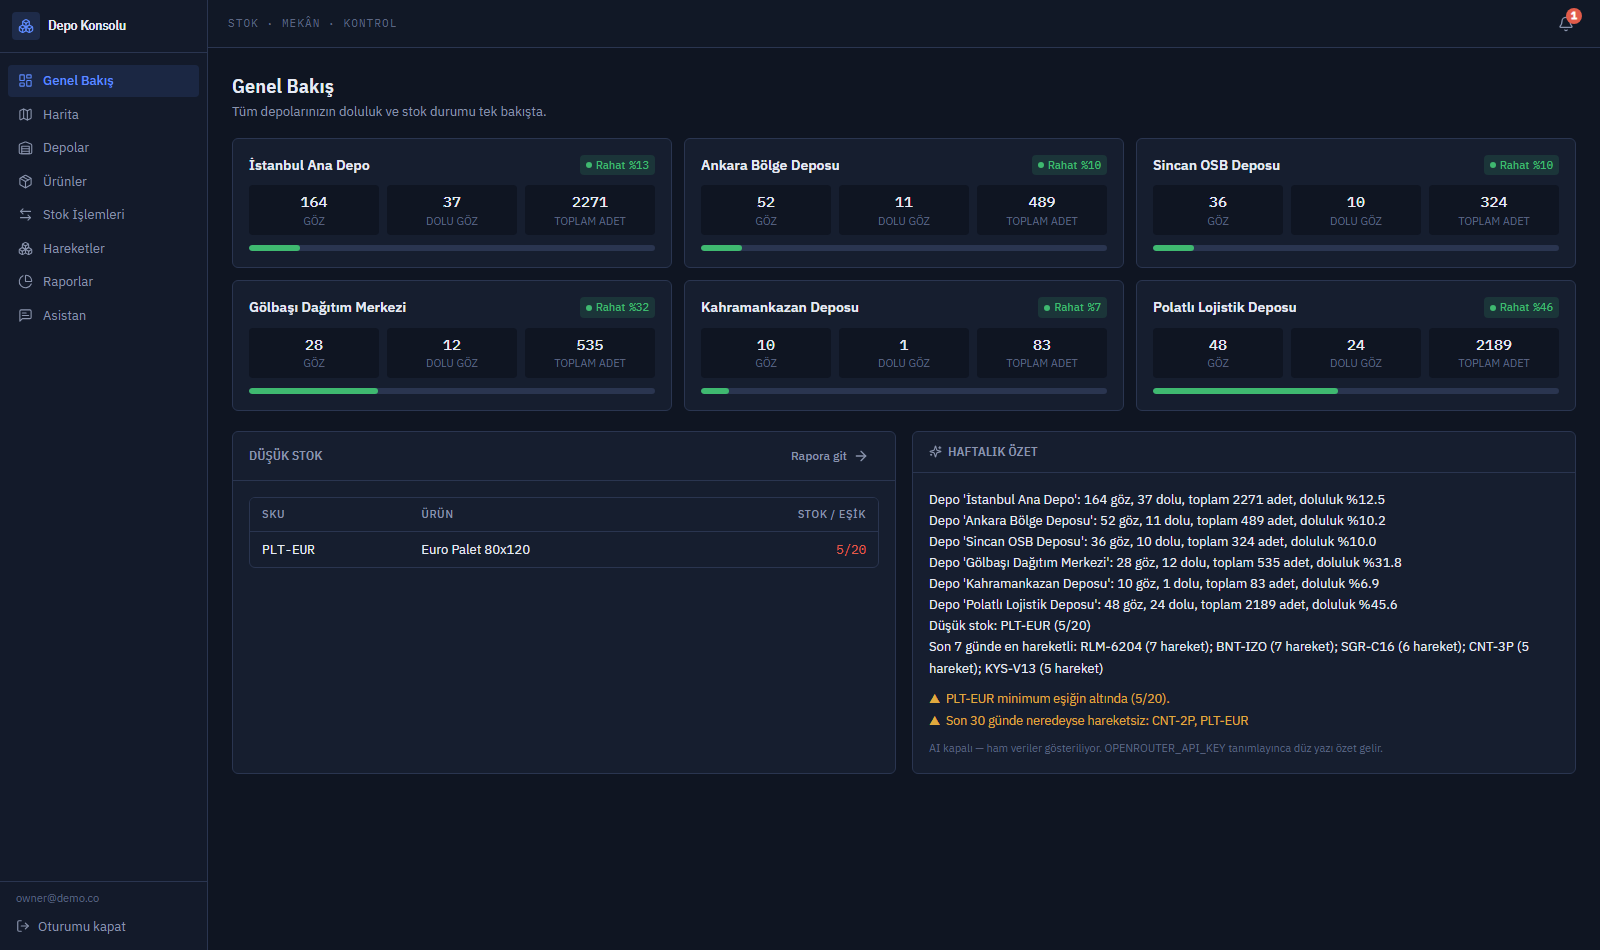
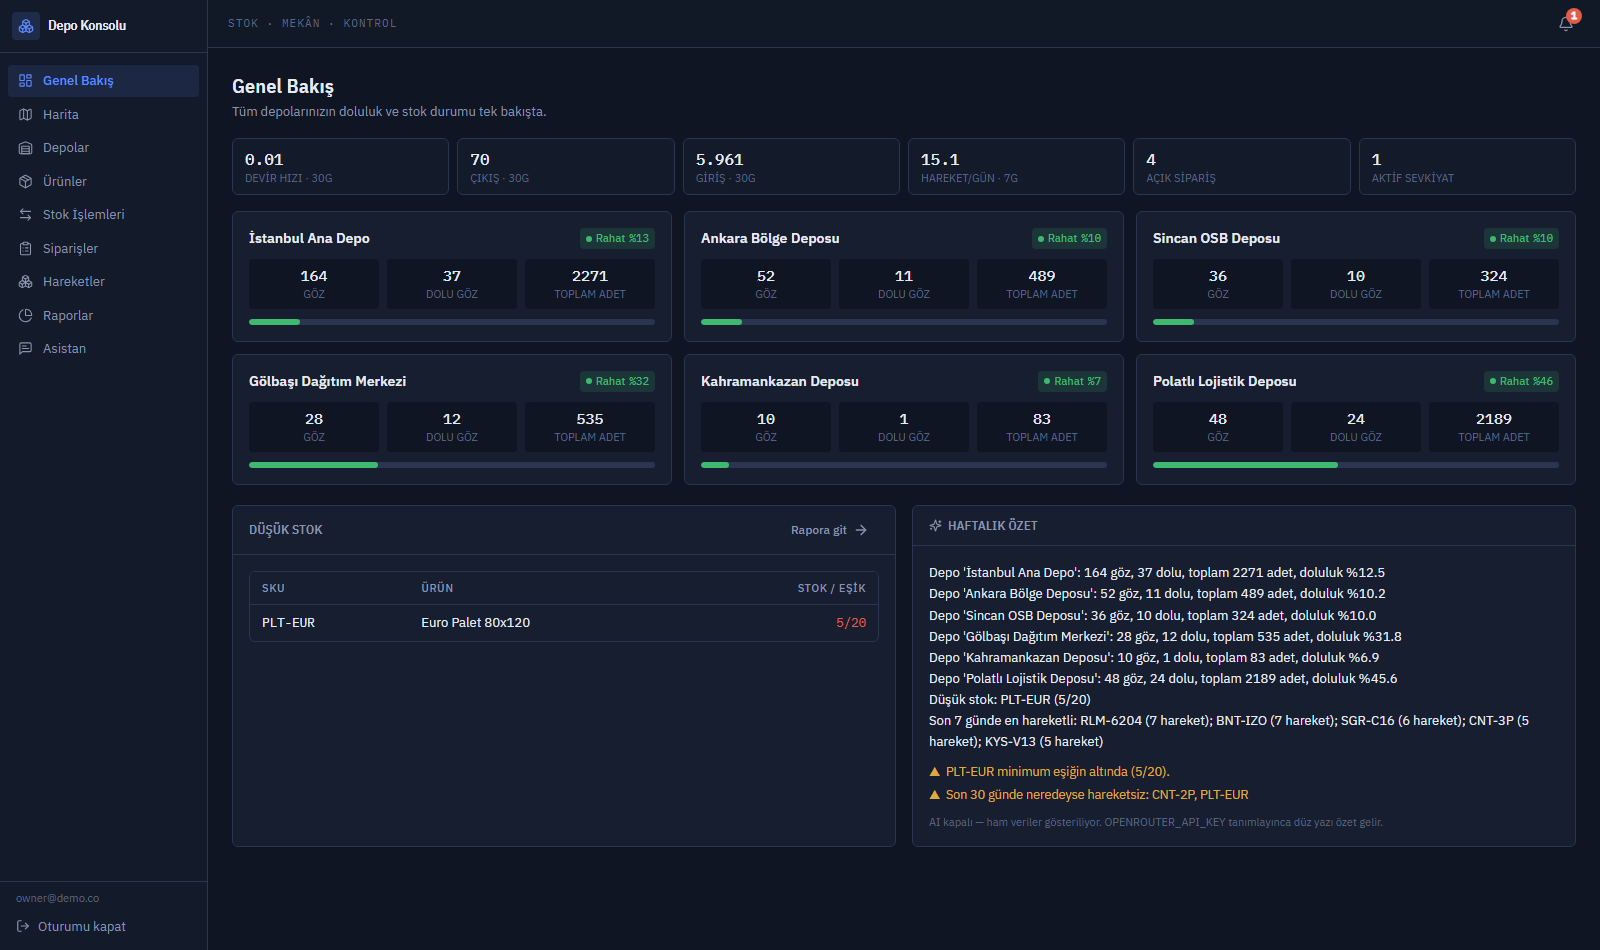
README: Faz 4 lojistik bölümü + canlı takip GIF ve still'ler; test sayıları güncellendi
- Canlı araç takibi, teslimat rotalama (VRP), what-if senaryosu, talep tahmini/
  reorder, sipariş+dalga toplama, barkod bölümleri + görseller
- Mimari diyagramına Lojistik servisi + WebSocket kolu
- Testler: 119 pytest + 114 vitest; kapsam tablosu Faz 4 satırlarıyla genişledi
- Not: hızlandırılmış sim uyarısı, barkod platform desteği, sunucusuz demo

diff --git a/README.md b/README.md
@@ -8,7 +8,7 @@
 [![PostGIS](https://img.shields.io/badge/PostgreSQL%20%2B%20PostGIS-16%20%2F%203.5-336791?logo=postgresql&logoColor=white)](https://postgis.net)
 [![React](https://img.shields.io/badge/React-19-61DAFB?logo=react&logoColor=black)](https://react.dev)
 [![three.js](https://img.shields.io/badge/three.js-r3f%209-000000?logo=threedotjs&logoColor=white)](https://docs.pmnd.rs/react-three-fiber)
-[![Tests](https://img.shields.io/badge/tests-166%20passing-3fb970)](#-testler)
+[![Tests](https://img.shields.io/badge/tests-233%20passing-3fb970)](#-testler)
 [![License: MIT](https://img.shields.io/badge/license-MIT-5e8bff)](LICENSE)
 
 *Excel'in göstermediği şeyi gösterir: **stoğunuzun fiziksel yerini.***
@@ -19,7 +19,7 @@
 
 ### 🇬🇧 English summary
 
-**Depo Konsolu** is a multi-warehouse inventory management system for SMEs that treats *space* as a first-class citizen: warehouses live on a real map (MapLibre + PostGIS), a full **GIS workspace** lets you draw regions and get instant spatial analytics, and every rack is rendered in an **industrial-grade 3D scene** (react-three-fiber) where bin colors and fill heights encode live occupancy. On top of that: a **supply-chain network layer** (demand heatmap, center-of-gravity site suggestion, Voronoi service territories, drive-time coverage via OpenRouteService with an offline fallback), a **digital-twin realistic mode** (CC0 GLTF pallets & cartons, HDRI lighting, N8AO), **stock-alert pins** floating over low-stock bins, and an **order-picking route optimizer** (S-shape / largest-gap / greedy+2-opt) animated on the warehouse floor. An **AI layer** (OpenRouter) translates natural-language questions into safe, whitelisted, org-scoped queries — the model never touches SQL. Fully synchronous FastAPI backend, React 19 frontend, 166 tests, one-command Docker startup. The UI is Turkish; the docs below follow in Turkish.
+**Depo Konsolu** is a multi-warehouse inventory management system for SMEs that treats *space* as a first-class citizen: warehouses live on a real map (MapLibre + PostGIS), a full **GIS workspace** lets you draw regions and get instant spatial analytics, and every rack is rendered in an **industrial-grade 3D scene** (react-three-fiber) where bin colors and fill heights encode live occupancy. On top of that: a **supply-chain network layer** (demand heatmap, center-of-gravity site suggestion, Voronoi service territories, drive-time coverage via OpenRouteService with an offline fallback), a **digital-twin realistic mode** (CC0 GLTF pallets & cartons, HDRI lighting, N8AO), **stock-alert pins** floating over low-stock bins, and an **order-picking route optimizer** (S-shape / largest-gap / greedy+2-opt) animated on the warehouse floor. And a full **logistics layer**: capacitated **vehicle routing** (Clarke-Wright + 2-opt), **live fleet tracking** where trucks move on the map in real time with per-stop ETAs (WebSocket push, REST-polling fallback), a **what-if scenario** planner (close a warehouse, see the network re-balance), **demand forecasting** (Holt double-exponential) with reorder points, **order + wave picking**, a **KPI dashboard**, and camera **barcode scanning**. An **AI layer** (OpenRouter) translates natural-language questions into safe, whitelisted, org-scoped queries — the model never touches SQL. Fully synchronous FastAPI backend, React 19 frontend, 233 tests, one-command Docker startup, plus a **serverless live demo** that runs the entire API in the browser via MSW. The UI is Turkish; the docs below follow in Turkish.
 
 ---
 
@@ -112,6 +112,52 @@ duraklarla çizilir. Optimum referansı: Ratliff–Rosenthal (1983).
 
 ![Toplama rotası — üstten](docs/media/pick-route.png)
 
+### 🚚 Canlı Araç Takibi + Teslimat Rotalama
+
+Depoya atanmış müşteriler için **kapasiteli araç rotalama** (Clarke-Wright savings + 2-opt):
+depo/araç sayısı/kapasite seçin, turlar renkli çizgilerle haritaya düşsün. "Sevkiyatı
+başlat" deyince araçlar **gerçek zamanlı** yola çıkar — konumları haritada sürekli güncellenir,
+oklar kerterize döner, her araç kartında **durum, ilerleme %, sıradaki durak ve tahmini
+varış (ETA)** görünür.
+
+Takip mimarisi durumsuz: araç konumu saklanmaz, `konum = f(plan, geçen_süre)` ile her
+istekte deterministik hesaplanır. Backend bunu **WebSocket** ile 2 saniyede bir push'lar
+(SignalR muadili, JWT'li); soket kurulamazsa istemci **REST polling'e** düşer. Aynı motor
+tarayıcı-içi demoda TypeScript olarak koşar — canlı demo sunucusuz da araçları hareket ettirir.
+
+![Canlı araç takibi demosu](docs/media/demo-tracking.gif)
+
+![Canlı filo — harita üzerinde araçlar](docs/media/live-tracking.png)
+
+### 🔀 What-if Senaryosu — depo kapat, ağı yeniden gör
+
+Bir ya da daha çok depoyu "kapalı" işaretleyin: müşteriler anında en yakın açık depoya
+yeniden atanır, **toplam ağırlıklı taşıma mesafesi**, ortalama mesafe ve kapsama nasıl
+değişir kartta belirir (% fark, yeniden atanan müşteri sayısı, kapsama dışı değişimi).
+Kapalı depolar haritada soluklaşıp üstü çizilir. Ağ tasarımı araçlarının (anyLogistix,
+Coupa) çekirdek sorusu.
+
+![What-if senaryosu](docs/media/scenario.png)
+
+### 📈 Talep Tahmini + Yeniden Sipariş
+
+Her ürünün son 30 günlük çıkışından **Holt çift üstel düzeltme** ile 14 günlük tahmin
+eğrisi; ortalama talep, standart sapma ve güvenlik stoklu **yeniden sipariş noktası (ROP)**.
+"Ne zaman biter?" sorusuna gün cinsinden yanıt + order-up-to politikasıyla önerilen sipariş
+miktarı. Genel Bakış'a operasyonun nabzını tutan **KPI şeridi** (stok devir hızı, giriş/çıkış,
+hareket/gün, açık sipariş, aktif sevkiyat) eklendi.
+
+![Talep tahmini + reorder](docs/media/forecast.png)
+
+### 📥 Sipariş + Dalga Toplama · Barkod
+
+Müşteri siparişleri oluşturun, birden çoğunu **tek dalgada** birleştirin: kalemler ürün
+bazında toplanır, gözlere çözülür ve mevcut rota çözücüyle optimize edilip **yazdırılabilir
+toplama listesi** olarak çıkar. Stok işlemlerinde **kamerayla barkod okuma** (tarayıcı
+yerlisi BarcodeDetector API) ile SKU'yu okutup ürün seçin.
+
+![Sipariş + dalga toplama](docs/media/orders-wave.png)
+
 ### 📦 Stok Operasyonları + Tam Denetim İzi
 
 Mal kabul / toplama / transfer / sayım — hepsi tek transaction, satır kilitli
@@ -162,10 +208,11 @@ flowchart LR
     end
 
     subgraph Backend["FastAPI (sync)"]
-        API[REST /api/v1\nJWT + org izolasyonu]
+        API[REST /api/v1 + WS\nJWT + org izolasyonu]
         STOCK[Stok Servisi\nkilitli & atomik]
         GEO[Geo Analiz\nST_Covers · ST_Area · ST_Distance]
-        NET[Ağ Analizi\nCoG · Voronoi · kapsama · rota]
+        NET[Ağ Analizi\nCoG · Voronoi · kapsama]
+        LOG[Lojistik\nVRP · canlı takip · tahmin]
         AI[AI Katmanı\nbeyaz-listeli sorgu derleyici]
         SCHED[APScheduler\ndüşük stok kontrolü]
     end
@@ -176,14 +223,18 @@ flowchart LR
     SMTP[SMTP / konsol]
 
     RTK -->|JSON| API
-    API --> STOCK & GEO & NET & AI
-    STOCK & GEO & NET --> DB
+    RTK -.->|"WebSocket · canlı konum"| API
+    API --> STOCK & GEO & NET & LOG & AI
+    STOCK & GEO & NET & LOG --> DB
     NET -.->|"anahtar varsa"| ORS
     AI -->|"kısıtlı JSON şema"| OR
     AI --> DB
     SCHED --> DB
     SCHED --> SMTP
 ```
+
+Saf, test edilebilir çekirdekler (`services/vrp.py`, `tracking.py`, `forecast.py`) db/FastAPI'den
+bağımsızdır; aynı algoritmalar tarayıcı-içi demoda TypeScript olarak birebir çalışır.
 
 **İki koordinat sistemi, bilinçli ayrım:** depo *konumu* WGS84/PostGIS (harita);
 depo *içi* metre cinsinden düz kartezyen x/y/z (builder + 3B). İkisi hiç karışmaz.
@@ -243,8 +294,8 @@ npm run dev
 ## 🧪 Testler
 
 ```bash
-cd backend  && .venv\Scripts\python -m pytest      # 76 test
-cd frontend && npm test                            # 90 test
+cd backend  && .venv\Scripts\python -m pytest      # 119 test
+cd frontend && npm test                            # 114 test
 ```
 
 | Alan | Kanıtlanan |
@@ -252,12 +303,14 @@ cd frontend && npm test                            # 90 test
 | Org izolasyonu | B org'u A'nın verisine her uçta 404 alır — listelerde sızıntı yok |
 | Stok tutarlılığı | Negatif stok reddi, **transfer atomikliği** (ortada crash → hiçbir şey yazılmaz), tam audit |
 | AI güvenliği | Mock'lu: `DROP TABLE` içeren model çıktısı asla çalışmaz; alan beyaz listesi; limit → 429 |
-| Geo analiz | Poligon içi/dışı ayrımı, alan/mesafe büyüklükleri metre ölçeğinde doğrulanır |
-| Ağ analizi | Ağırlık merkezi bilinen dağılımda beklenen noktada; Voronoi bölge sayısı; kapsama bant istatistikleri; ORS mock'la isochrone + cache'in ikinci çağrıda API'ye gitmediği + anahtarsız halka fallback'i |
-| Toplama rotası | 2 koridorlu mini yerleşimde S-shape mesafesi elle hesapla birebir; optimize ≤ s-shape; boş sipariş 422 |
+| Geo/Ağ analizi | Poligon içi/dışı, alan/mesafe metre ölçeğinde; ağırlık merkezi beklenen noktada; Voronoi bölge sayısı; kapsama bantları; ORS mock + cache + anahtarsız halka fallback |
+| VRP + rota | Clarke-Wright tek araç TSP sırası elle doğrulanmış; kapasite bölünmesi; her rotada yük ≤ kapasite; 2-opt çapraz kenar düzeltir; S-shape mesafesi birebir |
+| Canlı takip | Durumsuz motor: t=0 depot, bacak ortası interpolasyon, servis penceresinde at_stop, bitişte completed; ETA/kerteriz elle hesapla; **WebSocket kare push'lar + kötü token 4401** |
+| What-if | Depo kapatınca ağırlıklı mesafe artar, yeniden atanan müşteri sayısı doğru, hepsini kapatma 422 |
+| Tahmin | Holt sabit seride sabit, artan trendde monoton; ROP elle hesapla birebir; stok bitiş günü; reorder önerisi |
+| Sipariş/dalga | Ürün birleştirme (5+3=8), göze çözme + rota; tek-depo kısıtı 422; org izolasyonu |
 | Uyarı pinleri | Eşik altı → critical, 1.5× eşik altı → warning; pin konumları göz/raf üstünde (saf kurucular) |
-| Builder & DXF | Kod benzersizliği, pos/dim tutarlılığı, mm→m ölçekleme, bozuk dosya hataları |
-| Frontend | Login, harita-tıklamalı depo oluşturma, builder, göz paneli, arama vurgusu, bölge analizi, ağ katmanları/CoG kartı, politika çipleri, ABC lejantı |
+| Frontend | Login, depo/builder/göz paneli, ağ katmanları/CoG, canlı filo kartları, senaryo kartı, tahmin grafiği, sipariş dalgası, KPI şeridi, barkod fallback, WASD yürüyüş overlay'i |
 
 ## Notlar
 
@@ -270,6 +323,14 @@ cd frontend && npm test                            # 90 test
   künyeleri için [docs/ASSETS-CREDITS.md](docs/ASSETS-CREDITS.md). Forklift CC-BY 3.0
   (KolosStudios), gerisi CC0.
 - Zayıf GPU'da 3B sekmesine `?lite` ekleyin — post-processing kapanır, sahne aynı kalır.
+- **Canlı araç takibi** WebSocket ile push'lanır; Docker'da nginx `/api/` WS upgrade'i
+  geçirir. Takip **hızlandırılmış simülasyondur** (varsayılan 30× — 1 gerçek dakika = 30
+  sim dakikası), gerçek GPS değil; amaç mekanizmayı demoda görünür kılmak.
+- **Barkod okuma** tarayıcı yerlisi `BarcodeDetector` API'sine yaslanır (Chrome/Edge); harici
+  WASM çözücü paketlenmez, desteklenmeyen tarayıcıda dürüst bir mesaj gösterilir.
+- **Canlı demo** (`abdullahmutllu.github.io/DepoStokKontrolSistemiCBS`) tüm API'yi MSW ile
+  tarayıcıda koşturur — canlı araç takibi dahil her şey sunucusuz çalışır (soket yerine 3 sn
+  REST polling). Veriler sekmede tutulur, yenileyince sıfırlanır.
 
 ## Lisans
 